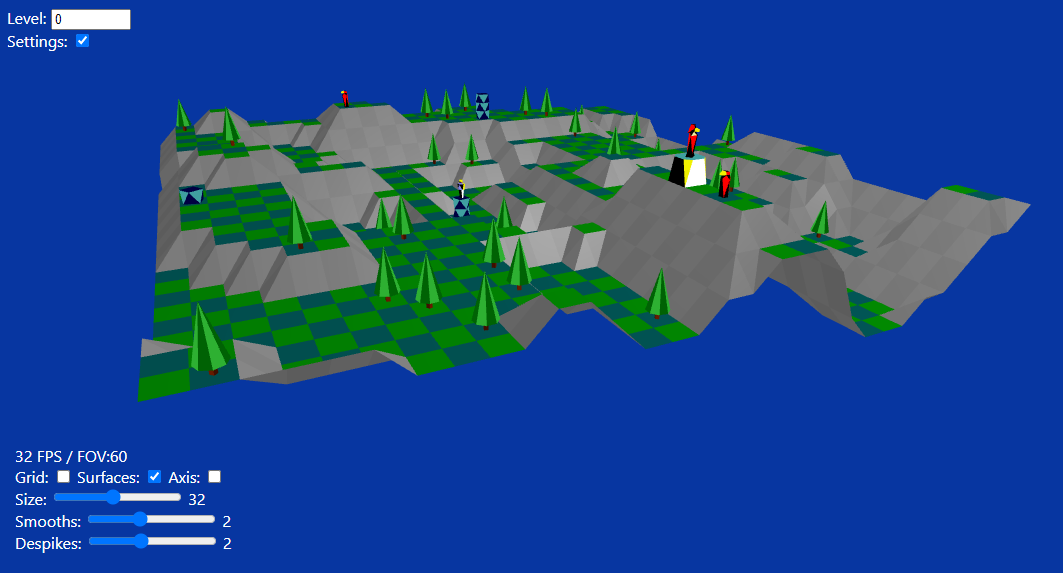
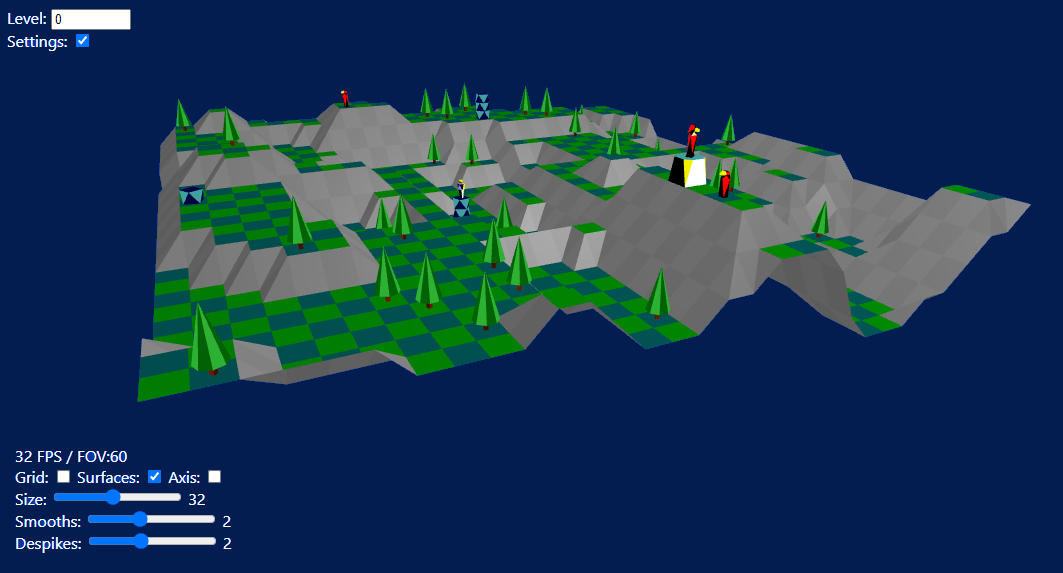
Updated despike for better accuracy

diff --git a/src/sentland.ts b/src/sentland.ts
@@ -63,34 +63,40 @@ function smooth(map: number[], dim: number, axis: string): number[] {
 	return newMap;
 }
 
+// Smooth 3 map vertices, returning a new central vertex height
+function despikeMidval(v1: number, v2: number, v3: number): number {
+	if (v2 === v3) return v2;
+	if (v2 > v3) {
+		if (v2 <= v1) return v2;
+		if (v1 < v3) return v3;
+		return v1;
+	}
+	if (v2 >= v1) return v2;
+	if (v3 < v1) return v3;
+	return v1;
+}
+
 // De-spike the map in slices across the given axis
 function despike(map: number[], dim: number, axis: string): number[] {
 	const newMap = map.slice();
 	if (axis == 'z') {
 		for (let z = 0; z < dim; z++) {
-			// work on a copy of the slice with the first items repeated at the end
+			// initialize a slightly longer row copy
 			const v = Array(dim + 3);
 			for (let x = 0; x < dim + 3; x++) v[x] = newMap[z * dim + (x % dim)];
-
-			for (let x = dim + 1; x > 0; x--) {
-				const v1 = v[x - 1];
-				const v2 = v[x];
-				const v3 = v[x + 1];
-				v[x] = (v1 > v2 && v3 > v2) || (v1 < v2 && v3 < v2) ? Math.min(v1, v3) : v2;
-			}
+			// despike it
+			for (let x = dim; x > 0; x--) v[x + 1] = despikeMidval(v[x], v[x + 1], v[x + 2]);
+			// copy back updated values
 			for (let x = 0; x < dim; x++) newMap[z * dim + x] = v[x];
 		}
 	} else {
 		for (let x = 0; x < dim; x++) {
-			// work on a copy of the slice with the first items repeated at the end
+			// initialize a slightly longer row copy
 			const v = Array(dim + 3);
 			for (let z = 0; z < dim + 3; z++) v[z] = newMap[(z % dim) * dim + x];
-			for (let z = dim + 1; z > 0; z--) {
-				const v1 = v[z - 1];
-				const v2 = v[z];
-				const v3 = v[z + 1];
-				v[z] = (v1 > v2 && v3 > v2) || (v1 < v2 && v3 < v2) ? Math.min(v1, v3) : v2;
-			}
+			// despike it
+			for (let z = dim; z > 0; z--) v[z + 1] = despikeMidval(v[z], v[z + 1], v[z + 2]);
+			// copy back updated values
 			for (let z = 0; z < dim; z++) newMap[z * dim + x] = v[z];
 		}
 	}

diff --git a/public/global.css b/public/global.css
@@ -10,6 +10,6 @@ body {
 	padding: 8px;
 	box-sizing: border-box;
 	font-family: "Segoe UI", sans-serif;
-	background-color: #0736A1;
+	background-color: #041D51;
 	color: white;
 }
